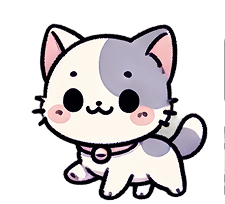
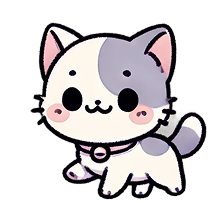
feat: add section donors adaptive

diff --git a/scss/section/_donors.scss b/scss/section/_donors.scss
@@ -3,10 +3,9 @@
     padding-bottom: 0px;
   }
 
-  // img {
-  //   width: 270px;
-  //   height: 240px;
-  // }
+  .cards{
+    flex-wrap: wrap;
+  }
 
   &__wrapper-btn {
     display: flex;
@@ -14,17 +13,47 @@
   }
 
   &__box {
-    // margin-top: 80px;
     text-align: center;
-    // width: 335px;
-    
-
+  
     picture{
-      height: 203px;
+      display: flex;
+      align-items: flex-end;
+      justify-content: center;
+
+
+      height: 140px;
+    }
+
+    img{
+      width: 125px;
     }
   }
 
   &__wrapper-btn{
     padding-top: 15px;
   }
+
+  &__btn{
+    width: 100%;
+  }
+}
+
+
+@media (min-width: 768px) {
+
+  .donors{
+    &__box{
+      picture{
+        height: 203px;
+      }
+      img{
+        width: 175px;
+      }
+    }
+  }
+
+}
+
+@media (min-width: 1024px) {
+
 }
